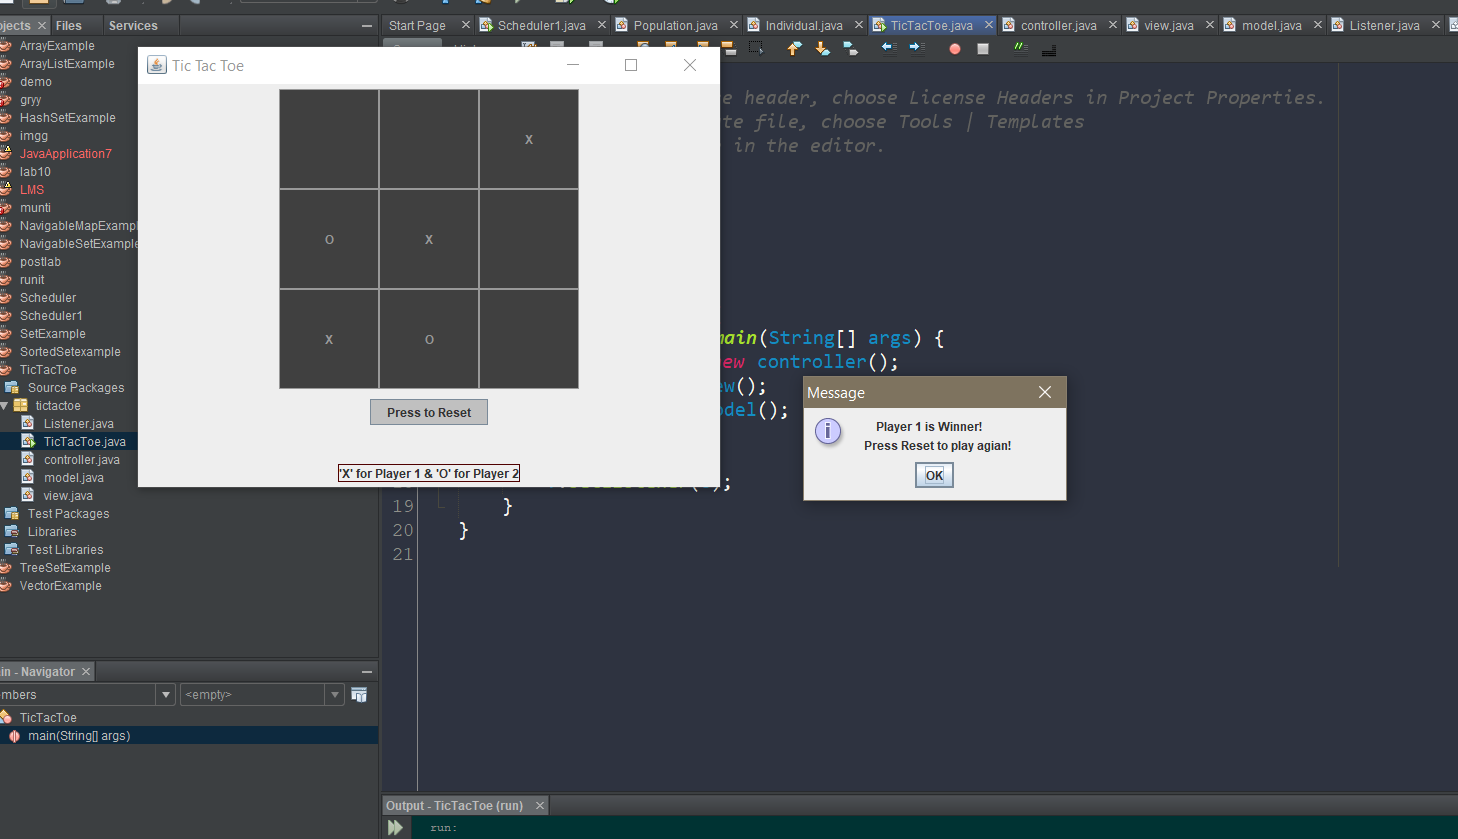
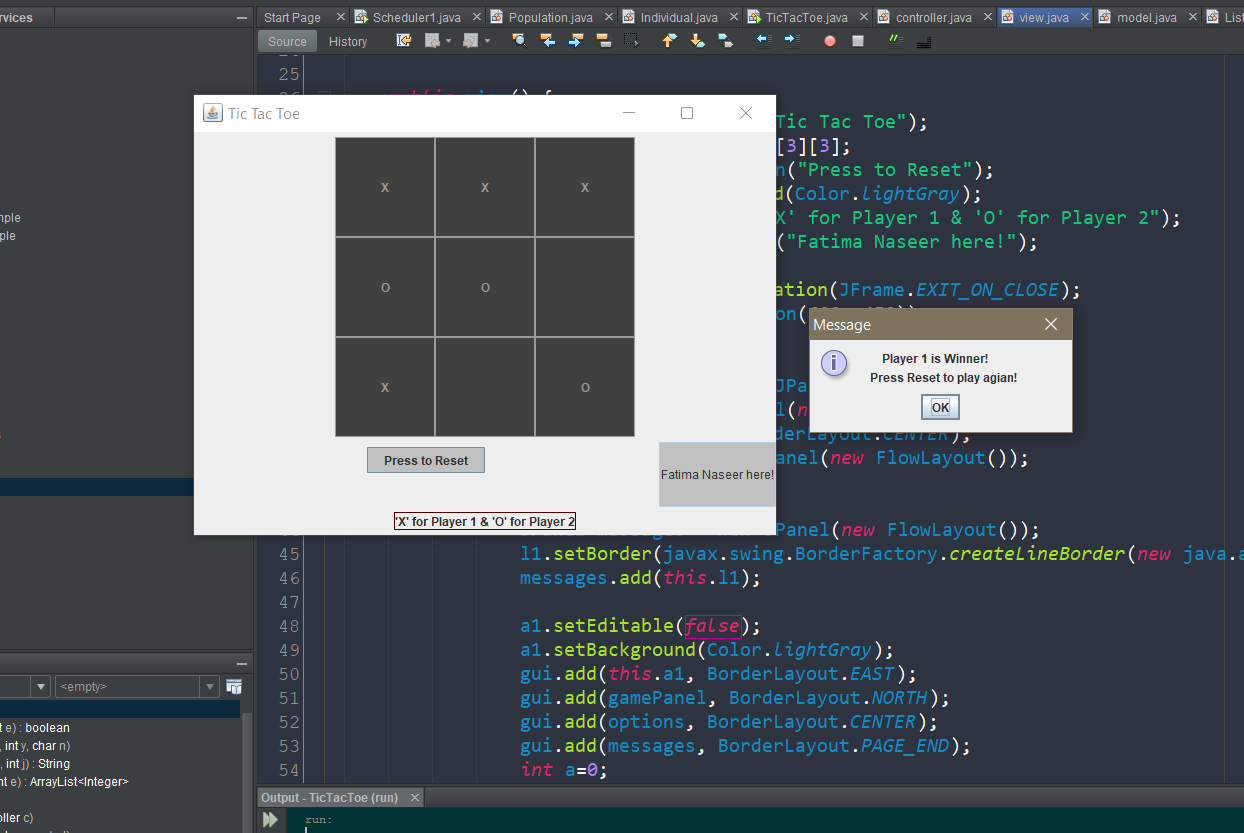
add

diff --git a/TicTacToe/src/tictactoe/view.java b/TicTacToe/src/tictactoe/view.java
@@ -20,6 +20,8 @@ public class view {
     private JButton[][] grid;
     private JButton reset;
     private JLabel l1;
+    private JTextField a1;
+   
 
     public view() {
     		this.gui = new JFrame("Tic Tac Toe");
@@ -27,7 +29,8 @@ public class view {
     		this.reset = new JButton("Press to Reset");
                 this.reset.setBackground(Color.lightGray);
                 this.l1 = new JLabel("'X' for Player 1 & 'O' for Player 2");
-               
+                this.a1= new JTextField("Fatima Naseer here!");
+                
                 gui.setDefaultCloseOperation(JFrame.EXIT_ON_CLOSE);
                 gui.setSize(new Dimension(600, 450));
                 gui.setResizable(true);
@@ -41,7 +44,10 @@ public class view {
                 JPanel messages = new JPanel(new FlowLayout());
                 l1.setBorder(javax.swing.BorderFactory.createLineBorder(new java.awt.Color(79, 0, 0)));
                 messages.add(this.l1);
-
+                
+                a1.setEditable(false);
+                a1.setBackground(Color.lightGray);
+                gui.add(this.a1, BorderLayout.EAST);
                 gui.add(gamePanel, BorderLayout.NORTH);
                 gui.add(options, BorderLayout.CENTER);
                 gui.add(messages, BorderLayout.PAGE_END);
